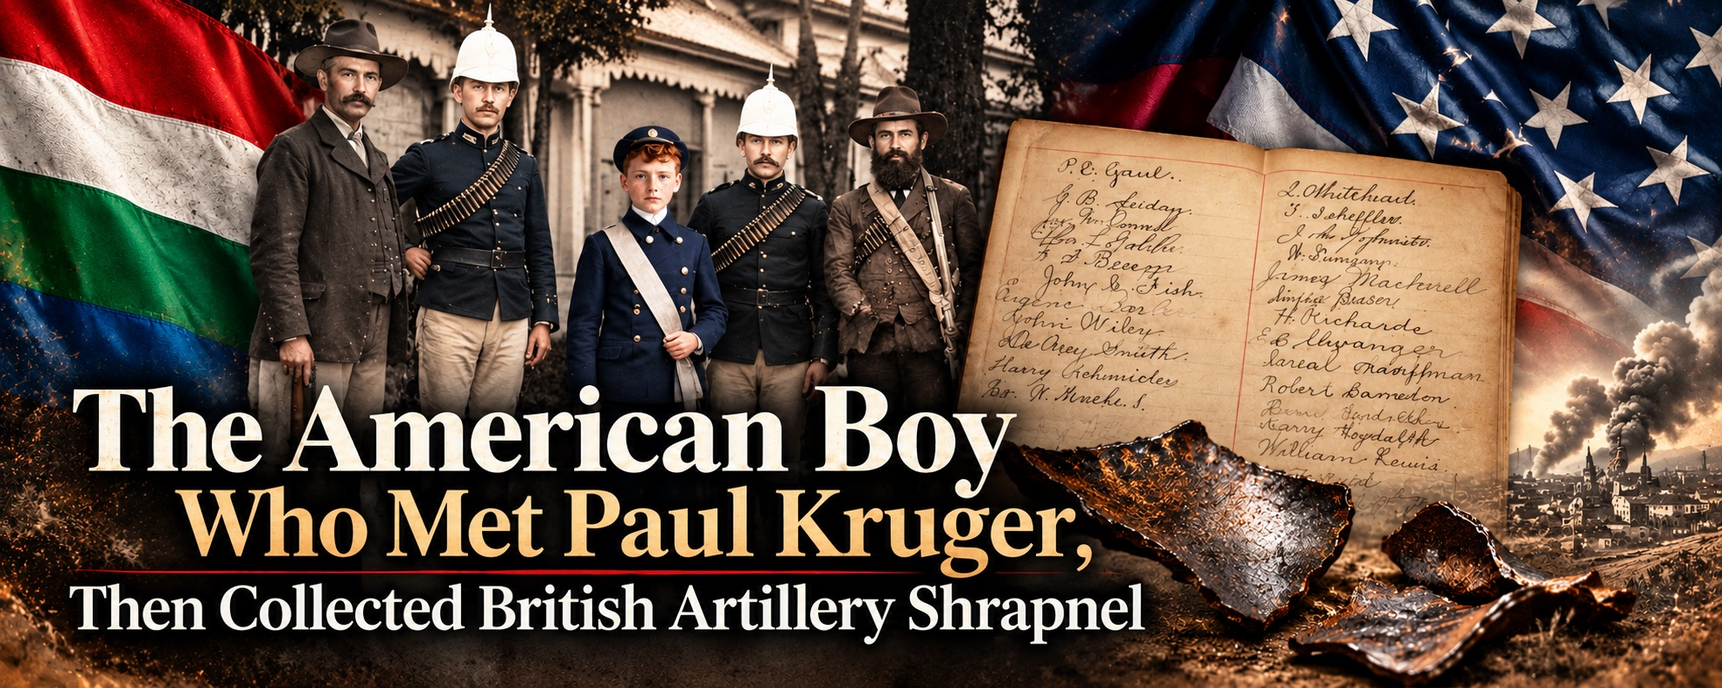
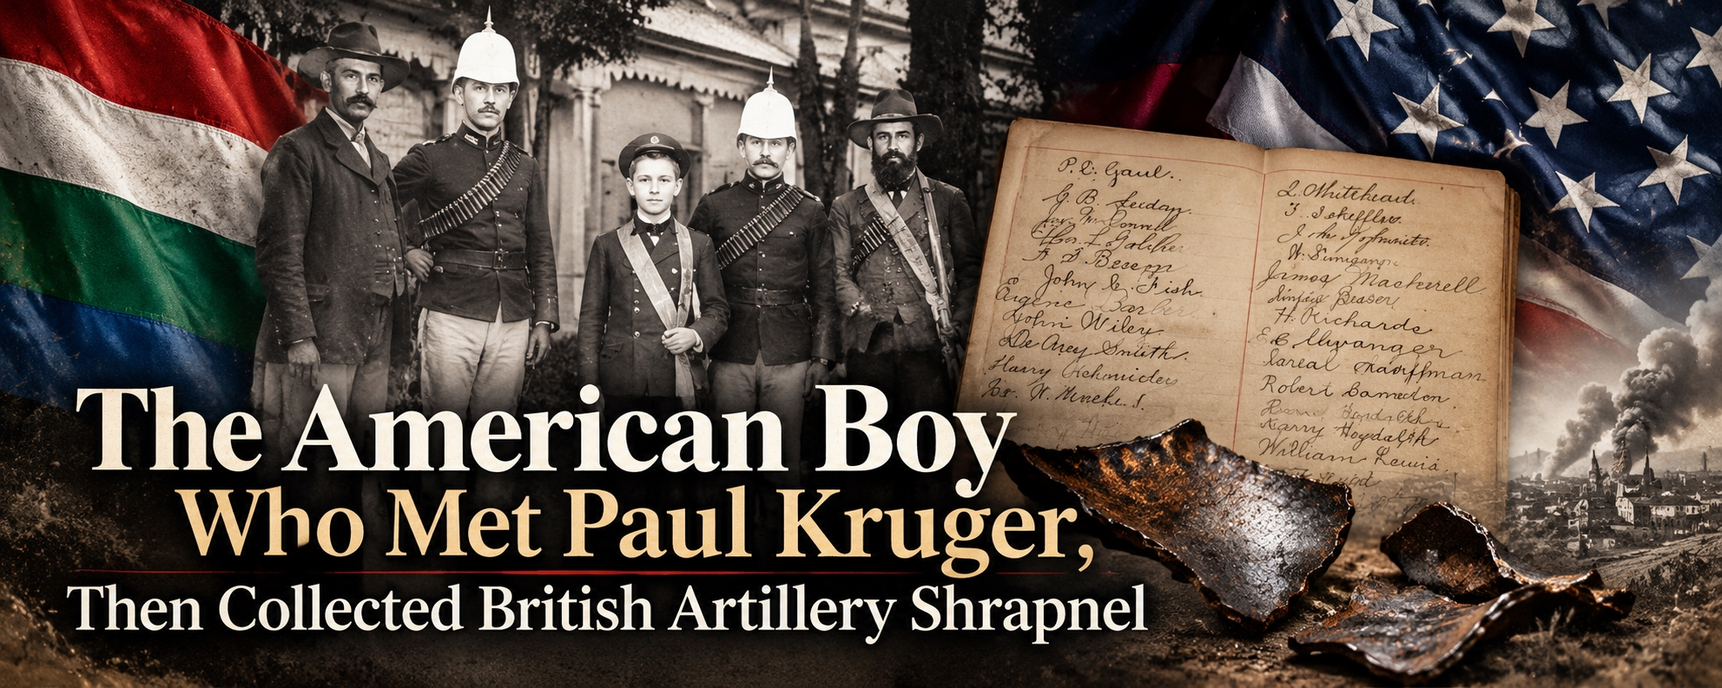
Replace Jimmy Smith cover with supplied final artwork and refresh image caches

diff --git a/articles/jimmy-smith-paul-kruger-artillery-shrapnel.html b/articles/jimmy-smith-paul-kruger-artillery-shrapnel.html
@@ -1,4 +1,4 @@
-<!doctype html><html lang="en"><head><meta charset="utf-8"><meta name="viewport" content="width=device-width,initial-scale=1"><title>The American Boy Who Met Paul Kruger, Then Collected British Artillery Shrapnel | Alt Afrikaner</title><meta name="description" content="In 1900, sixteen-year-old Jimmy Smith carried 28,000 American schoolboys' signatures to Paul Kruger, then collected British artillery fragments during the fighting for Pretoria."><meta name="article:section" content="History & Heritage"><meta name="keywords" content="history,Boer War,Jimmy Smith,Paul Kruger,Philadelphia,American schoolboys"><link rel="canonical" href="https://altafrikaner.com/articles/jimmy-smith-paul-kruger-artillery-shrapnel.html"><meta property="og:type" content="article"><meta property="og:title" content="The American Boy Who Met Paul Kruger, Then Collected British Artillery Shrapnel"><meta property="og:description" content="In 1900, sixteen-year-old Jimmy Smith carried 28,000 American schoolboys' signatures to Paul Kruger, then collected British artillery fragments during the fighting for Pretoria."><meta property="og:url" content="https://altafrikaner.com/articles/jimmy-smith-paul-kruger-artillery-shrapnel.html"><meta property="og:image" content="https://altafrikaner.com/assets/articles/jimmy-smith-cover.jpg"><meta property="og:image:width" content="1983"><meta property="og:image:height" content="793"><meta property="og:image:type" content="image/jpeg"><meta property="og:image:alt" content="Illustrated feature cover of Jimmy Smith, Paul Kruger, and the British artillery shrapnel story"><meta name="twitter:card" content="summary_large_image"><meta name="twitter:image" content="https://altafrikaner.com/assets/articles/jimmy-smith-cover.jpg"><link rel="stylesheet" href="../assets/editorial-shell.css"><script defer src="../assets/editorial-shell.js"></script><style>:root{--ink:#18283e;--gold:#c39d60}*{box-sizing:border-box}body{margin:0;background:#f8f5ee;color:var(--ink);font:18px/1.78 system-ui,Arial,sans-serif}a{color:#84242b}header,footer{background:#121f34;color:#f1e7d5;padding:20px clamp(20px,5vw,80px)}header a,footer a{color:#f1e7d5}.mast{font-weight:800;letter-spacing:.12em;text-decoration:none}.hero{padding:65px clamp(24px,6vw,110px);background:linear-gradient(120deg,#101e32,#324360);color:#fff}.eyebrow{color:#e9c68e;font-size:12px;font-weight:800;letter-spacing:.19em}.hero h1{font:700 clamp(38px,5.4vw,78px)/1.08 Georgia,serif;max-width:1000px;margin:20px 0}.hero p{max-width:740px;color:#ece1d3;font:italic 24px/1.5 Georgia,serif}.feature-cover{margin:0;padding:0;max-width:none;border:0;box-shadow:none;background:#0c1929;overflow:hidden}.feature-cover img{display:block;width:100%;max-width:1983px;margin:0 auto;height:auto;object-fit:contain;aspect-ratio:1983/793}.hero.article-intro{padding:29px clamp(22px,6vw,100px) 34px;background:#13253e;border-bottom:3px solid #bf9656}.hero.article-intro .eyebrow{font-size:11px;letter-spacing:.17em;color:#e9c68e}.hero.article-intro p{font:italic clamp(18px,1.85vw,24px)/1.55 Georgia,serif;color:#f0e6d7;max-width:1000px;margin:12px auto 0;text-align:center}.hero.article-intro .eyebrow{text-align:center}.visually-hidden{position:absolute!important;width:1px;height:1px;overflow:hidden;clip:rect(0,0,0,0);white-space:nowrap;clip-path:inset(50%)}figure.editorial-portrait,figure.editorial-group{max-width:680px}figure.editorial-portrait img,figure.editorial-group img{width:100%;height:auto;max-height:none;object-fit:contain}figure.editorial-group{max-width:770px}main{max-width:900px;padding:42px 22px 80px;margin:auto}article section{margin:45px 0 65px}article h2{font:700 clamp(28px,3vw,41px)/1.18 Georgia,serif;margin:0 0 16px}article p{margin:0 0 24px}figure{margin:35px auto;background:#fff;border:1px solid #d5c8b7;padding:16px;box-shadow:0 10px 34px #16274018}figure img{display:block;max-width:100%;max-height:690px;object-fit:contain;margin:auto}figcaption{font-size:14px;color:#404b59;line-height:1.55;padding:12px 4px 2px}.note{border-left:4px solid #aa813f;background:#eae2d5;padding:18px 24px;margin:28px 0}.sources{border-top:2px solid #cab68f;padding-top:26px;font-size:16px}.sources li{margin:12px 0}a:focus-visible{outline:3px solid #d3a64e;outline-offset:3px}@media(max-width:780px){.hero.article-intro{padding:22px 20px 26px}.hero.article-intro p{font-size:18px}.feature-cover img{height:auto}}</style></head><body><header><a class="mast" href="../index.html">ALT AFRIKANER</a> · <a href="index.html?category=history">History & Heritage</a></header><figure class="feature-cover"><img src="../assets/articles/jimmy-smith-cover.jpg" width="1983" height="793" fetchpriority="high" decoding="async" alt="Alt Afrikaner editorial cover: The American Boy Who Met Paul Kruger, Then Collected British Artillery Shrapnel, with Jimmy Smith, the American and Boer flags, the signed petition and artillery fragments"></figure><div class="hero article-intro"><div class="eyebrow">ALT AFRIKANER / HISTORY &amp; HERITAGE / SECOND ANGLO-BOER WAR</div><h1 class="visually-hidden">The American Boy Who Met Paul Kruger, Then Collected British Artillery Shrapnel</h1><p>A teenage American messenger delivered thousands of schoolboys' good wishes to President Paul Kruger on the eve of Pretoria's fall. Days later, he collected British artillery fragments beneath the guns.</p></div><main><article><div class="note"><strong>Image provenance:</strong> The cover and two featured portraits are modern editorial illustrations based on historical reference images; they are not original 1900 photographs. Museum artefact photographs elsewhere in this article link to DITSONG Museums of South Africa. The account of Jimmy collecting artillery fragments is attributed to eyewitness James F. J. Archibald.</div><section id="chapter-1"><h2>When an American schoolboy crossed an ocean</h2><p>In the spring of 1900, sixteen-year-old James Francis “Jimmy” Smith of Brooklyn undertook a journey few grown men would have dared. While Britain fought the two Boer republics of southern Africa, he set out from the United States carrying the names of more than 28,000 Philadelphia schoolboys and a message of sympathy for President Paul Kruger. Their words were written in ink, their message entrusted to a teenager, and the war was advancing towards Pretoria.</p></section>
+<!doctype html><html lang="en"><head><meta charset="utf-8"><meta name="viewport" content="width=device-width,initial-scale=1"><title>The American Boy Who Met Paul Kruger, Then Collected British Artillery Shrapnel | Alt Afrikaner</title><meta name="description" content="In 1900, sixteen-year-old Jimmy Smith carried 28,000 American schoolboys' signatures to Paul Kruger, then collected British artillery fragments during the fighting for Pretoria."><meta name="article:section" content="History & Heritage"><meta name="keywords" content="history,Boer War,Jimmy Smith,Paul Kruger,Philadelphia,American schoolboys"><link rel="canonical" href="https://altafrikaner.com/articles/jimmy-smith-paul-kruger-artillery-shrapnel.html"><meta property="og:type" content="article"><meta property="og:title" content="The American Boy Who Met Paul Kruger, Then Collected British Artillery Shrapnel"><meta property="og:description" content="In 1900, sixteen-year-old Jimmy Smith carried 28,000 American schoolboys' signatures to Paul Kruger, then collected British artillery fragments during the fighting for Pretoria."><meta property="og:url" content="https://altafrikaner.com/articles/jimmy-smith-paul-kruger-artillery-shrapnel.html"><meta property="og:image" content="https://altafrikaner.com/assets/articles/jimmy-smith-cover.jpg?v=final-20261024"><meta property="og:image:width" content="1983"><meta property="og:image:height" content="793"><meta property="og:image:type" content="image/jpeg"><meta property="og:image:alt" content="Illustrated feature cover of Jimmy Smith, Paul Kruger, and the British artillery shrapnel story"><meta name="twitter:card" content="summary_large_image"><meta name="twitter:image" content="https://altafrikaner.com/assets/articles/jimmy-smith-cover.jpg?v=final-20261024"><link rel="stylesheet" href="../assets/editorial-shell.css"><script defer src="../assets/editorial-shell.js"></script><style>:root{--ink:#18283e;--gold:#c39d60}*{box-sizing:border-box}body{margin:0;background:#f8f5ee;color:var(--ink);font:18px/1.78 system-ui,Arial,sans-serif}a{color:#84242b}header,footer{background:#121f34;color:#f1e7d5;padding:20px clamp(20px,5vw,80px)}header a,footer a{color:#f1e7d5}.mast{font-weight:800;letter-spacing:.12em;text-decoration:none}.hero{padding:65px clamp(24px,6vw,110px);background:linear-gradient(120deg,#101e32,#324360);color:#fff}.eyebrow{color:#e9c68e;font-size:12px;font-weight:800;letter-spacing:.19em}.hero h1{font:700 clamp(38px,5.4vw,78px)/1.08 Georgia,serif;max-width:1000px;margin:20px 0}.hero p{max-width:740px;color:#ece1d3;font:italic 24px/1.5 Georgia,serif}.feature-cover{margin:0;padding:0;max-width:none;border:0;box-shadow:none;background:#0c1929;overflow:hidden}.feature-cover img{display:block;width:100%;max-width:1983px;margin:0 auto;height:auto;object-fit:contain;aspect-ratio:1983/793}.hero.article-intro{padding:29px clamp(22px,6vw,100px) 34px;background:#13253e;border-bottom:3px solid #bf9656}.hero.article-intro .eyebrow{font-size:11px;letter-spacing:.17em;color:#e9c68e}.hero.article-intro p{font:italic clamp(18px,1.85vw,24px)/1.55 Georgia,serif;color:#f0e6d7;max-width:1000px;margin:12px auto 0;text-align:center}.hero.article-intro .eyebrow{text-align:center}.visually-hidden{position:absolute!important;width:1px;height:1px;overflow:hidden;clip:rect(0,0,0,0);white-space:nowrap;clip-path:inset(50%)}figure.editorial-portrait,figure.editorial-group{max-width:680px}figure.editorial-portrait img,figure.editorial-group img{width:100%;height:auto;max-height:none;object-fit:contain}figure.editorial-group{max-width:770px}main{max-width:900px;padding:42px 22px 80px;margin:auto}article section{margin:45px 0 65px}article h2{font:700 clamp(28px,3vw,41px)/1.18 Georgia,serif;margin:0 0 16px}article p{margin:0 0 24px}figure{margin:35px auto;background:#fff;border:1px solid #d5c8b7;padding:16px;box-shadow:0 10px 34px #16274018}figure img{display:block;max-width:100%;max-height:690px;object-fit:contain;margin:auto}figcaption{font-size:14px;color:#404b59;line-height:1.55;padding:12px 4px 2px}.note{border-left:4px solid #aa813f;background:#eae2d5;padding:18px 24px;margin:28px 0}.sources{border-top:2px solid #cab68f;padding-top:26px;font-size:16px}.sources li{margin:12px 0}a:focus-visible{outline:3px solid #d3a64e;outline-offset:3px}@media(max-width:780px){.hero.article-intro{padding:22px 20px 26px}.hero.article-intro p{font-size:18px}.feature-cover img{height:auto}}</style></head><body><header><a class="mast" href="../index.html">ALT AFRIKANER</a> · <a href="index.html?category=history">History & Heritage</a></header><figure class="feature-cover"><img src="../assets/articles/jimmy-smith-cover.jpg?v=final-20261024" width="1983" height="793" fetchpriority="high" decoding="async" alt="Alt Afrikaner editorial cover: The American Boy Who Met Paul Kruger, Then Collected British Artillery Shrapnel, with Jimmy Smith, the American and Boer flags, the signed petition and artillery fragments"></figure><div class="hero article-intro"><div class="eyebrow">ALT AFRIKANER / HISTORY &amp; HERITAGE / SECOND ANGLO-BOER WAR</div><h1 class="visually-hidden">The American Boy Who Met Paul Kruger, Then Collected British Artillery Shrapnel</h1><p>A teenage American messenger delivered thousands of schoolboys' good wishes to President Paul Kruger on the eve of Pretoria's fall. Days later, he collected British artillery fragments beneath the guns.</p></div><main><article><div class="note"><strong>Image provenance:</strong> The cover and two featured portraits are modern editorial illustrations based on historical reference images; they are not original 1900 photographs. Museum artefact photographs elsewhere in this article link to DITSONG Museums of South Africa. The account of Jimmy collecting artillery fragments is attributed to eyewitness James F. J. Archibald.</div><section id="chapter-1"><h2>When an American schoolboy crossed an ocean</h2><p>In the spring of 1900, sixteen-year-old James Francis “Jimmy” Smith of Brooklyn undertook a journey few grown men would have dared. While Britain fought the two Boer republics of southern Africa, he set out from the United States carrying the names of more than 28,000 Philadelphia schoolboys and a message of sympathy for President Paul Kruger. Their words were written in ink, their message entrusted to a teenager, and the war was advancing towards Pretoria.</p></section>
 <section id="chapter-2"><h2>Philadelphia's remarkable message</h2><p>The Philadelphia North American and Evening Bulletin reported the initiative in March 1900. Edwin A. Valkenberg of the North American helped organise the appeal. Jimmy, messenger number 1534 with the American District Telegraph Company in Philadelphia, was selected from more than 1,900 messenger boys. The assignment was not merely to post a letter. He was to meet the president of the South African Republic, or Transvaal, in person.</p></section>
 <section id="chapter-3"><h2>A young messenger and a distant republic</h2><p>On the departure day in Philadelphia, crowds attended a ceremony at the Academy of Music. Jimmy carried a leather messenger bag and an embroidered Transvaal Vierkleur, the four-colour flag of the republic. Journalist Hugh Sutherland accompanied him. The pair crossed the Atlantic aboard the St Louis on 9 April 1900, travelled through France and the Netherlands, met Queen Wilhelmina and the Transvaal representative W. J. Leyds, and continued by sea through the Suez Canal towards southern Africa. After reaching Lourenço Marques, now Maputo, on 25 May, they travelled by railway to Pretoria.</p><figure class="editorial-portrait"><img loading="lazy" decoding="async" src="../assets/articles/jimmy-smith-messenger-portrait.jpg" width="1086" height="1448" alt="Colour editorial reconstruction of teenage messenger Jimmy Smith, with his ceremonial sash, dispatch roll, wooden case and the American and Transvaal flags"><figcaption>Jimmy Smith as a teenage messenger. Modern colour editorial illustration inspired by his period portrait, with the original historical photograph shown as an inset. Not a contemporary colour photograph.</figcaption></figure></section>
 <section id="chapter-4"><h2>The meeting with President Kruger</h2><p>Jimmy and Sutherland reached Pretoria on 28 May. The next day, during the final tense days before the city's occupation, President Paul Kruger stopped a war-council meeting at the Raadsaal to receive the American boy. Jimmy presented the signatures and message. According to the museum's record of Jimmy's recollection, British guns could already be heard in the distance through the open windows. Kruger thanked the schoolchildren and said their sympathy encouraged him. He left Pretoria later that day.</p><figure class="editorial-group"><img loading="lazy" decoding="async" src="../assets/articles/jimmy-smith-group-reconstruction.jpg" width="1086" height="1448" alt="Historical-style editorial reconstruction of a group photograph showing Jimmy Smith with four men in Pretoria in 1900"><figcaption>Jimmy Smith with a group of men in Pretoria, represented in a modern historical-style editorial reconstruction. This is an illustrated reinterpretation of period imagery, not an unaltered archival photograph.</figcaption></figure></section>

diff --git a/articles/index.html b/articles/index.html
@@ -1,1 +1,1 @@
-<!doctype html><html lang="en"><head><meta charset="utf-8"><meta name="viewport" content="width=device-width,initial-scale=1"><title>Articles & Opinion | Alt Afrikaner</title><meta name="description" content="Alt Afrikaner articles, opinion, history and analysis."><link rel="canonical" href="https://altafrikaner.com/articles/"><link href="https://fonts.googleapis.com/css2?family=Playfair+Display:wght@400;700&family=Source+Sans+3:wght@400;600;700&display=swap" rel="stylesheet"><style>*{box-sizing:border-box}body{margin:0;background:#f7f4ec;color:#1b2a4a;font:400 18px/1.7 'Source Sans 3',sans-serif}header{padding:22px max(24px,calc((100vw - 1180px)/2));background:#14233c;color:#fff;display:flex;justify-content:space-between;align-items:center;gap:15px;flex-wrap:wrap}header a{color:#f6e9d5;text-decoration:none;font-weight:700}header .brand{font:700 21px Georgia,serif;letter-spacing:.08em}.hero{background:#14233c;color:#f4eee4;padding:70px max(24px,calc((100vw - 1180px)/2)) 90px}.eyebrow{font:700 12px 'Source Sans 3',sans-serif;color:#d8ae69;letter-spacing:.17em;text-transform:uppercase}.hero h1{font:700 clamp(45px,6vw,80px)/1.1 'Playfair Display',Georgia,serif;margin:20px 0}.hero p{max-width:690px;color:#d8dfe8}.wrap{max-width:1180px;margin:-35px auto 75px;padding:0 24px}.card{background:#fffdf8;border:1px solid #d6cbbb;box-shadow:0 15px 40px #101e3315;max-width:850px;overflow:hidden}.artwork{padding:50px 34px;background:linear-gradient(135deg,#111f35,#283d60);color:#fff}.artwork span{font:700 13px 'Source Sans 3',sans-serif;color:#dcb780;letter-spacing:.14em}.artwork h2{font:700 clamp(30px,4vw,51px)/1.18 'Playfair Display',Georgia,serif;margin:15px 0 0;max-width:740px}.info{padding:32px}.info p{margin:0 0 22px;color:#3d4c5e}.info a{color:#83141b;font-weight:700;text-decoration-thickness:2px;text-underline-offset:5px}footer{background:#101d31;color:#cfd9e5;text-align:center;padding:30px}a:focus-visible{outline:3px solid #bf8a34;outline-offset:4px}</style><link rel="stylesheet" href="../assets/editorial-shell.css"><script defer src="../assets/editorial-shell.js"></script></head><body><header><a class="brand" href="../index.html">ALT AFRIKANER</a><nav aria-label="Publication departments"><a href="../index.html#investigations">Investigations</a> &nbsp; <a href="index.html" aria-current="page">Articles &amp; Opinion</a></nav></header><section class="hero"><span class="eyebrow">ALT AFRIKANER / THE EDITORIAL DESK</span><h1>Articles &amp; Opinion.</h1><p>Independent ideas, arguments, history and analysis. This article library is separate from our 31-file investigative research archive.</p></section><main class="wrap"><nav class="aa-editorial-archive-nav" aria-label="Filter articles"><a href="index.html" data-tag="all">All articles</a><a href="?category=opinion" data-tag="opinion">Opinion</a><a href="?category=politics" data-tag="politics">Politics</a><a href="?category=technology" data-tag="technology">Technology</a><a href="?category=international" data-tag="international">International</a><a href="?category=history" data-tag="history">History &amp; Heritage</a></nav><article class="card" data-tags="opinion politics technology international"><div class="artwork" style="padding:0;background:#111f35"><img src="../assets/articles/tom-eaton-trojan-horse-cover.jpg" alt="Tom Eaton Trojan horse editorial cover" width="1672" height="941" loading="lazy" style="display:block;width:100%;height:auto;aspect-ratio:16/9;object-fit:cover"><div style="padding:25px 32px"><span>FEATURED OPINION · TECHNOLOGY & POLITICS</span><h2>Tom Eaton Warns of a Trojan Horse. Common Sense Says It's Already Inside.</h2></div></div><div class="info"><p>From satellite connectivity to philanthropy, the debate over foreign influence deserves consistent scrutiny.</p><a href="tom-eaton-trojan-horse.html">Read the complete article →</a></div></article><article class="card" data-tags="history international"><div class="artwork" style="padding:0;background:#111f35"><img src="../assets/articles/jimmy-smith-cover.jpg" alt="Illustrated cover of the American Boy Who Met Paul Kruger, featuring the petition, two flags and artillery fragments" loading="lazy" width="1983" height="793" style="display:block;width:100%;height:auto;aspect-ratio:1983/793;object-fit:contain;background:#111f35"><div style="padding:25px 32px"><span>HISTORY &amp; HERITAGE · 1900</span><h2>The American Boy Who Met Paul Kruger, Then Collected British Artillery Shrapnel</h2></div></div><div class="info"><p>Sixteen-year-old Jimmy Smith brought the signatures of more than 28,000 Philadelphia schoolboys to Pretoria—and witnessed the British bombardment of the Boer capital.</p><a href="jimmy-smith-paul-kruger-artillery-shrapnel.html">Read the historical feature →</a></div></article><p class="aa-editorial-empty" hidden>No published articles in this category yet. Browse all articles to see the current archive.</p></main><footer>ALT AFRIKANER · <a style="color:#e7bf7a" href="mailto:AltAfrikaner@outlook.com">Contact</a></footer><script>(function(){const category=new URLSearchParams(location.search).get('category')||'all';const cards=[...document.querySelectorAll('[data-tags]')];let visible=0;cards.forEach(c=>{const yes=category==='all'||c.dataset.tags.split(' ').includes(category);c.hidden=!yes;if(yes)visible++});document.querySelectorAll('[data-tag]').forEach(a=>a.setAttribute('aria-current',String(a.dataset.tag===category)));const empty=document.querySelector('.aa-editorial-empty');if(empty)empty.hidden=visible>0})()</script></body></html>
+<!doctype html><html lang="en"><head><meta charset="utf-8"><meta name="viewport" content="width=device-width,initial-scale=1"><title>Articles & Opinion | Alt Afrikaner</title><meta name="description" content="Alt Afrikaner articles, opinion, history and analysis."><link rel="canonical" href="https://altafrikaner.com/articles/"><link href="https://fonts.googleapis.com/css2?family=Playfair+Display:wght@400;700&family=Source+Sans+3:wght@400;600;700&display=swap" rel="stylesheet"><style>*{box-sizing:border-box}body{margin:0;background:#f7f4ec;color:#1b2a4a;font:400 18px/1.7 'Source Sans 3',sans-serif}header{padding:22px max(24px,calc((100vw - 1180px)/2));background:#14233c;color:#fff;display:flex;justify-content:space-between;align-items:center;gap:15px;flex-wrap:wrap}header a{color:#f6e9d5;text-decoration:none;font-weight:700}header .brand{font:700 21px Georgia,serif;letter-spacing:.08em}.hero{background:#14233c;color:#f4eee4;padding:70px max(24px,calc((100vw - 1180px)/2)) 90px}.eyebrow{font:700 12px 'Source Sans 3',sans-serif;color:#d8ae69;letter-spacing:.17em;text-transform:uppercase}.hero h1{font:700 clamp(45px,6vw,80px)/1.1 'Playfair Display',Georgia,serif;margin:20px 0}.hero p{max-width:690px;color:#d8dfe8}.wrap{max-width:1180px;margin:-35px auto 75px;padding:0 24px}.card{background:#fffdf8;border:1px solid #d6cbbb;box-shadow:0 15px 40px #101e3315;max-width:850px;overflow:hidden}.artwork{padding:50px 34px;background:linear-gradient(135deg,#111f35,#283d60);color:#fff}.artwork span{font:700 13px 'Source Sans 3',sans-serif;color:#dcb780;letter-spacing:.14em}.artwork h2{font:700 clamp(30px,4vw,51px)/1.18 'Playfair Display',Georgia,serif;margin:15px 0 0;max-width:740px}.info{padding:32px}.info p{margin:0 0 22px;color:#3d4c5e}.info a{color:#83141b;font-weight:700;text-decoration-thickness:2px;text-underline-offset:5px}footer{background:#101d31;color:#cfd9e5;text-align:center;padding:30px}a:focus-visible{outline:3px solid #bf8a34;outline-offset:4px}</style><link rel="stylesheet" href="../assets/editorial-shell.css"><script defer src="../assets/editorial-shell.js"></script></head><body><header><a class="brand" href="../index.html">ALT AFRIKANER</a><nav aria-label="Publication departments"><a href="../index.html#investigations">Investigations</a> &nbsp; <a href="index.html" aria-current="page">Articles &amp; Opinion</a></nav></header><section class="hero"><span class="eyebrow">ALT AFRIKANER / THE EDITORIAL DESK</span><h1>Articles &amp; Opinion.</h1><p>Independent ideas, arguments, history and analysis. This article library is separate from our 31-file investigative research archive.</p></section><main class="wrap"><nav class="aa-editorial-archive-nav" aria-label="Filter articles"><a href="index.html" data-tag="all">All articles</a><a href="?category=opinion" data-tag="opinion">Opinion</a><a href="?category=politics" data-tag="politics">Politics</a><a href="?category=technology" data-tag="technology">Technology</a><a href="?category=international" data-tag="international">International</a><a href="?category=history" data-tag="history">History &amp; Heritage</a></nav><article class="card" data-tags="opinion politics technology international"><div class="artwork" style="padding:0;background:#111f35"><img src="../assets/articles/tom-eaton-trojan-horse-cover.jpg" alt="Tom Eaton Trojan horse editorial cover" width="1672" height="941" loading="lazy" style="display:block;width:100%;height:auto;aspect-ratio:16/9;object-fit:cover"><div style="padding:25px 32px"><span>FEATURED OPINION · TECHNOLOGY & POLITICS</span><h2>Tom Eaton Warns of a Trojan Horse. Common Sense Says It's Already Inside.</h2></div></div><div class="info"><p>From satellite connectivity to philanthropy, the debate over foreign influence deserves consistent scrutiny.</p><a href="tom-eaton-trojan-horse.html">Read the complete article →</a></div></article><article class="card" data-tags="history international"><div class="artwork" style="padding:0;background:#111f35"><img src="../assets/articles/jimmy-smith-cover.jpg?v=final-20261024" alt="Illustrated cover of the American Boy Who Met Paul Kruger, featuring the petition, two flags and artillery fragments" loading="lazy" width="1983" height="793" style="display:block;width:100%;height:auto;aspect-ratio:1983/793;object-fit:contain;background:#111f35"><div style="padding:25px 32px"><span>HISTORY &amp; HERITAGE · 1900</span><h2>The American Boy Who Met Paul Kruger, Then Collected British Artillery Shrapnel</h2></div></div><div class="info"><p>Sixteen-year-old Jimmy Smith brought the signatures of more than 28,000 Philadelphia schoolboys to Pretoria—and witnessed the British bombardment of the Boer capital.</p><a href="jimmy-smith-paul-kruger-artillery-shrapnel.html">Read the historical feature →</a></div></article><p class="aa-editorial-empty" hidden>No published articles in this category yet. Browse all articles to see the current archive.</p></main><footer>ALT AFRIKANER · <a style="color:#e7bf7a" href="mailto:AltAfrikaner@outlook.com">Contact</a></footer><script>(function(){const category=new URLSearchParams(location.search).get('category')||'all';const cards=[...document.querySelectorAll('[data-tags]')];let visible=0;cards.forEach(c=>{const yes=category==='all'||c.dataset.tags.split(' ').includes(category);c.hidden=!yes;if(yes)visible++});document.querySelectorAll('[data-tag]').forEach(a=>a.setAttribute('aria-current',String(a.dataset.tag===category)));const empty=document.querySelector('.aa-editorial-empty');if(empty)empty.hidden=visible>0})()</script></body></html>
